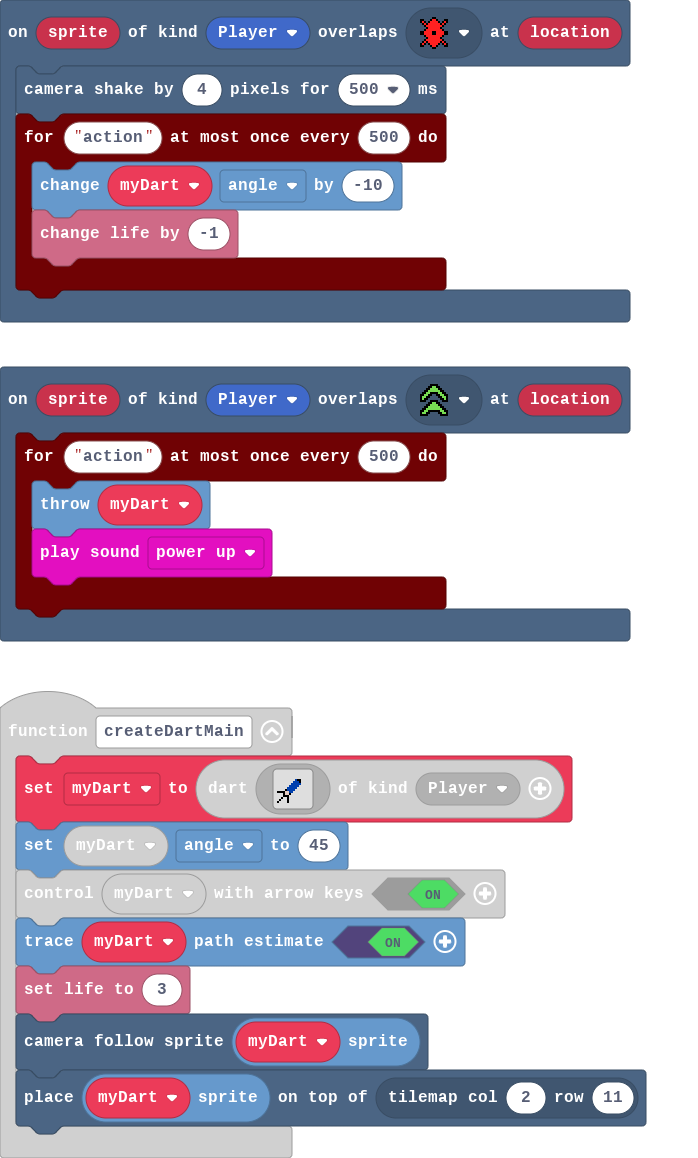
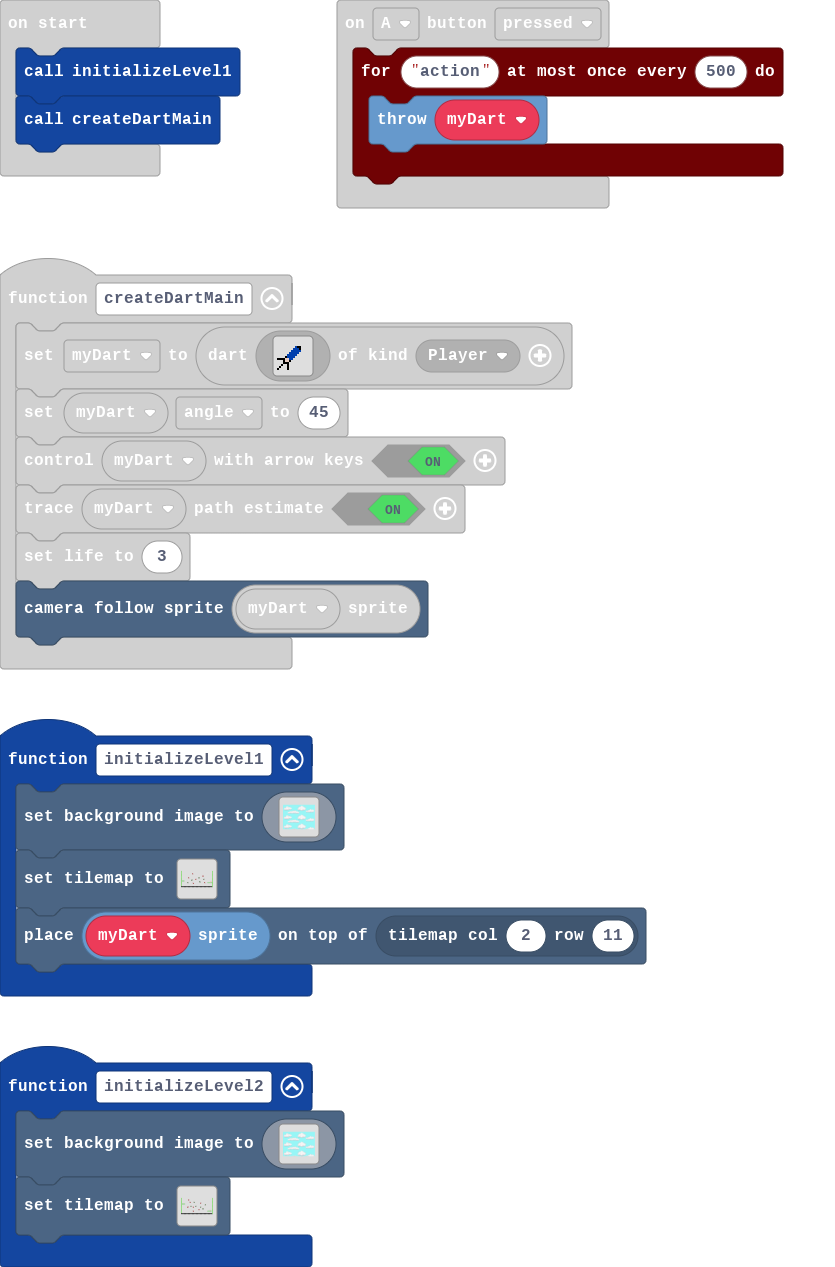
Update main.blocks, main.ts, tilemap.g.jres, tilemap.g.ts

diff --git a/tilemap.g.ts b/tilemap.g.ts
@@ -13,67 +13,6 @@ namespace myTiles {
 
     helpers._registerFactory("tilemap", function(name: string) {
         switch(helpers.stringTrim(name)) {
-            case "level2":
-            case "level2":return tiles.createTilemap(hex`1000100000000000000000000000000000000000000000000000000000000000000000000000000000000000000000000000000000000000000000000000000000000000000000000000000000000000000000000000000000000000000000000000000000000000000000000000000000000000000000000000000000000000000000000000000000000000000000000000000000000000000000000000000000000000000000000000000000000000000000000000000000000000000000000000000000000000000000000000000000000000000000000000000000000000000000000000000000000000000000000000000000000000000000000000000000000000`, img`
-. . . . . . . . . . . . . . . . 
-. . . . . . . . . . . . . . . . 
-. . . . . . . . . . . . . . . . 
-. . . . . . . . . . . . . . . . 
-. . . . . . . . . . . . . . . . 
-. . . . . . . . . . . . . . . . 
-. . . . . . . . . . . . . . . . 
-. . . . . . . . . . . . . . . . 
-. . . . . . . . . . . . . . . . 
-. . . . . . . . . . . . . . . . 
-. . . . . . . . . . . . . . . . 
-. . . . . . . . . . . . . . . . 
-. . . . . . . . . . . . . . . . 
-. . . . . . . . . . . . . . . . 
-. . . . . . . . . . . . . . . . 
-. . . . . . . . . . . . . . . . 
-`, [myTiles.transparency16], TileScale.Sixteen);
-            case "level1":
-            case "level1":return tiles.createTilemap(hex`280014000600000000000000000000000000000000000000000000000000000000000000000000000000000406000000000000000000000000000000000000000000000000000000000000000000000000000004060000000000000000000000000000000000000000000000000000000000000000000000000000040600000000000000000000000000090000000000000000000000000000000000000000000000000406000000000000000000000000000000000000000000000000000000000000000000000000000004060000000000000000000000000000000000000000000000000000000000000000000000000000040600000000000000000000000000000000000000000000000000000900000000000000000000000406000000000000000000000000000000000000000000000000000000000000000000000000000004060000000000000000090000000000000000000000000800000000000000000000000000000000040600000000000000000000000000000000000000000000000000000000000000000000000000000406000000000000000000000000000000000009000000000000000000080000000000000000000004060000000000000000000000000800000000000000000000000000000000000000000000000000040601020300000000000000000000000000000000000000000000000000000000000000000000000406000000000000000000000000000000000000000000000800000000000000000005000000000004060000000000000008000000000000000000000000000000000000000009000102020202030000040600000000000000000000000000000900000000000000000000000000000000000000000000000406000000000000000000000000000000000000000000000000000000000000000000000000000004060000000000000000000000000000000000000000000000000000000000000000000000000000040600000000000000000000000000000000000000000000000000000000000000000000000000000407070707070707070707070707070707070707070707070707070707070707070707070707070704`, img`
-2......................................2
-2......................................2
-2......................................2
-2......................................2
-2......................................2
-2......................................2
-2......................................2
-2......................................2
-2......................................2
-2......................................2
-2......................................2
-2......................................2
-2222...................................2
-2......................................2
-2..............................222222..2
-2......................................2
-2......................................2
-2......................................2
-2......................................2
-2......................................2
-`, [myTiles.transparency16,sprites.skillmap.islandTile6,sprites.skillmap.islandTile7,sprites.skillmap.islandTile8,sprites.skillmap.islandTile5,myTiles.tile1,sprites.skillmap.islandTile3,myTiles.tile2,myTiles.tile3,myTiles.tile4], TileScale.Sixteen);
-            case "level3":
-            case "level3":return tiles.createTilemap(hex`1000100000000000000000000000000000000000000000000000000000000000000000000000000000000000000000000000000000000000000000000000000000000000000000000000000000000000000000000000000000000000000000000000000000000000000000000000000000000000000000000000000000000000000000000000000000000000000000000000000000000000000000000000000000000000000000000000000000000000000000000000000000000000000000000000000000000000000000000000000000000000000000000000000000000000000000000000000000000000000000000000000000000000000000000000000000000000`, img`
-. . . . . . . . . . . . . . . . 
-. . . . . . . . . . . . . . . . 
-. . . . . . . . . . . . . . . . 
-. . . . . . . . . . . . . . . . 
-. . . . . . . . . . . . . . . . 
-. . . . . . . . . . . . . . . . 
-. . . . . . . . . . . . . . . . 
-. . . . . . . . . . . . . . . . 
-. . . . . . . . . . . . . . . . 
-. . . . . . . . . . . . . . . . 
-. . . . . . . . . . . . . . . . 
-. . . . . . . . . . . . . . . . 
-. . . . . . . . . . . . . . . . 
-. . . . . . . . . . . . . . . . 
-. . . . . . . . . . . . . . . . 
-. . . . . . . . . . . . . . . . 
-`, [myTiles.transparency16], TileScale.Sixteen);
             case "level4":
             case "level4":return tiles.createTilemap(hex`1000100000000000000000000000000000000000000000000000000000000000000000000000000000000000000000000000000000000000000000000000000000000000000000000000000000000000000000000000000000000000000000000000000000000000000000000000000000000000000000000000000000000000000000000000000000000000000000000000000000000000000000000000000000000000000000000000000000000000000000000000000000000000000000000000000000000000000000000000000000000000000000000000000000000000000000000000000000000000000000000000000000000000000000000000000000000000`, img`
 . . . . . . . . . . . . . . . . 
@@ -93,6 +32,113 @@ namespace myTiles {
 . . . . . . . . . . . . . . . . 
 . . . . . . . . . . . . . . . . 
 `, [myTiles.transparency16], TileScale.Sixteen);
+            case "level1":
+            case "level1":return tiles.createTilemap(hex`280014000600000000000000000000000000000000000000000000000000000000000000000000000000000406000000000000000000000000000000000000000000000000000000000000000000000000000004060000000000000000000000000000000000000000000000000000000000000000000000000000040600000000000000000000000000090000000000000000000000000000000000000000000000000406000000000000000000000000000000000000000000000000000000000000000000000000000004060000000000000000000000000000000000000000000000000000000000000000000000000000040600000000000000000000000000000000000000000000000000000900000000000000000000000406000000000000000000000000000000000000000000000000000000000000000000000000000004060000000000000000090000000000000000000000000800000000000000000000000000000000040600000000000000000000000000000000000000000000000000000000000000000000000000000406000000000000000000000000000000000009000000000000000000080000000000000000000004060000000000000000000000000800000000000000000000000000000000000000000000000000040601020300000000000000000000000000000000000000000000000000000000000000000000000406000000000000000000000000000000000000000000000800000000000000000000000000050004060000000000000008000000000000000000000000000000000000000009000000010202020203040600000000000000000000000000000900000000000000000000000000000000000000000000000406000000000000000000000000000000000000000000000000000000000000000000000000000004060000000000000000000000000000000000000000000000000000000000000000000000000000040600000000000000000000000000000000000000000000000000000000000000000000000000000407070707070707070707070707070707070707070707070707070707070707070707070707070704`, img`
+2......................................2
+2......................................2
+2......................................2
+2......................................2
+2......................................2
+2......................................2
+2......................................2
+2......................................2
+2......................................2
+2......................................2
+2......................................2
+2......................................2
+2222...................................2
+2......................................2
+2................................2222222
+2......................................2
+2......................................2
+2......................................2
+2......................................2
+2......................................2
+`, [myTiles.transparency16,sprites.skillmap.islandTile6,sprites.skillmap.islandTile7,sprites.skillmap.islandTile8,sprites.skillmap.islandTile5,myTiles.tile1,sprites.skillmap.islandTile3,myTiles.tile2,myTiles.tile3,myTiles.tile4], TileScale.Sixteen);
+            case "level5":
+            case "level5":return tiles.createTilemap(hex`1000100000000000000000000000000000000000000000000000000000000000000000000000000000000000000000000000000000000000000000000000000000000000000000000000000000000000000000000000000000000000000000000000000000000000000000000000000000000000000000000000000000000000000000000000000000000000000000000000000000000000000000000000000000000000000000000000000000000000000000000000000000000000000000000000000000000000000000000000000000000000000000000000000000000000000000000000000000000000000000000000000000000000000000000000000000000000`, img`
+. . . . . . . . . . . . . . . . 
+. . . . . . . . . . . . . . . . 
+. . . . . . . . . . . . . . . . 
+. . . . . . . . . . . . . . . . 
+. . . . . . . . . . . . . . . . 
+. . . . . . . . . . . . . . . . 
+. . . . . . . . . . . . . . . . 
+. . . . . . . . . . . . . . . . 
+. . . . . . . . . . . . . . . . 
+. . . . . . . . . . . . . . . . 
+. . . . . . . . . . . . . . . . 
+. . . . . . . . . . . . . . . . 
+. . . . . . . . . . . . . . . . 
+. . . . . . . . . . . . . . . . 
+. . . . . . . . . . . . . . . . 
+. . . . . . . . . . . . . . . . 
+`, [myTiles.transparency16], TileScale.Sixteen);
+            case "level6":
+            case "level6":return tiles.createTilemap(hex`1000100000000000000000000000000000000000000000000000000000000000000000000000000000000000000000000000000000000000000000000000000000000000000000000000000000000000000000000000000000000000000000000000000000000000000000000000000000000000000000000000000000000000000000000000000000000000000000000000000000000000000000000000000000000000000000000000000000000000000000000000000000000000000000000000000000000000000000000000000000000000000000000000000000000000000000000000000000000000000000000000000000000000000000000000000000000000`, img`
+. . . . . . . . . . . . . . . . 
+. . . . . . . . . . . . . . . . 
+. . . . . . . . . . . . . . . . 
+. . . . . . . . . . . . . . . . 
+. . . . . . . . . . . . . . . . 
+. . . . . . . . . . . . . . . . 
+. . . . . . . . . . . . . . . . 
+. . . . . . . . . . . . . . . . 
+. . . . . . . . . . . . . . . . 
+. . . . . . . . . . . . . . . . 
+. . . . . . . . . . . . . . . . 
+. . . . . . . . . . . . . . . . 
+. . . . . . . . . . . . . . . . 
+. . . . . . . . . . . . . . . . 
+. . . . . . . . . . . . . . . . 
+. . . . . . . . . . . . . . . . 
+`, [myTiles.transparency16], TileScale.Sixteen);
+            case "level3":
+            case "level3":return tiles.createTilemap(hex`280014000400000000000000000000000000000000000000000000000000000000000000000000000000000704000000000000000000000000000000000000000000000000000000000000000000000000000007040000000000000000000000000000000000000000000000000000000000000000000000000000070400000000000000000000000000000000000000000000000000000000000200000000000000000704000000000000000000000000000000000000030000000000000000000000000000000000000007040000000000000000000000000000000000000000000000000000000000000000000000000000070400000000000000000000000000000000000000000000000000000300000000000000000000000704000000000000000000000000030000000000000000000000000000000000000000000000000007040000000000000000000000000000000000020000000000000000000000000000000000000000070400000000000000000000000000000000000000000000000000000000000000000000000000000704000000000000000000000000000000000000000000000000000000000000000005060000000007040000000000000000000000000000000300000000000002000000000000000200000000000000070400000000000000000002000000000000000000000000000000000002000000000000000000000704000000000000000000000000000000000000000000000000000000000000000000000000000007040000000000000000000000000000000002000000000000000000000000000000000000000000070405060000000000000000000000000000000000000000000000000000000000000000000000000704000000000000030000000000000000000000000000000000000000000000000000000000000007040000000000000000000000000000000000000000000000000000000000000000000000000000070400000000000000000000000000000000000000000000000000000000000000000000000000000701010101010101010101010101010101010101010101010101010101010101010101010101010107`, img`
+2......................................2
+2......................................2
+2......................................2
+2......................................2
+2......................................2
+2......................................2
+2......................................2
+2......................................2
+2......................................2
+2......................................2
+2................................22....2
+2......................................2
+2......................................2
+2......................................2
+2......................................2
+222....................................2
+2......................................2
+2......................................2
+2......................................2
+2......................................2
+`, [myTiles.transparency16,myTiles.tile2,myTiles.tile3,myTiles.tile4,sprites.skillmap.islandTile3,sprites.skillmap.islandTile6,sprites.skillmap.islandTile8,sprites.skillmap.islandTile5], TileScale.Sixteen);
+            case "level2":
+            case "level2":return tiles.createTilemap(hex`280014000500000000000000000000000000000000000000000000000000000000000000000000000000000905000000000000000000000000000000000000000000000000000000000000000000000000000009050000000000000000040000000000000000000000000000000000000000000000000000000000090500000000000000000000000000000000000000000000000000000000000000000000000000000905000000000000000000000000000000000000000000000000000000000000000000000000000009050000000000000000000004000000000300000000000000000000000000000000000000000000090500000000000000000000000000000000000000000000000400000000000000000000000000000905060707080000000000000000000000000000000000000000000000000000000000000000000009050000000000000000000000000000000000000000000000000000000000030000000000000000090500000000000000000000000000000000000000000000000000000000000000000000000000000905000000000000000000000003000000000003000000000000000000000000000000000000000009050000000000000004000000000000040000000000000000030000000000000000000000000000090500000000000000000000000000000000000000000000000000000000000000000000000000000905000000000000000000000000000000000000000000000000000003000000000000000000000009050000000000000000000000000000000000000000000400000000000000000000000000000000090500000000000000000000000000000000000000000000000000000000000000000000000100000905000000000000000000000000000004000000000000000000000000000000000006070707080009050000000000000000000000000000000000000000000000000000000000000000000000000000090500000000000000000000000000000000000000000000000000000000000000000000000000000902020202020202020202020202020202020202020202020202020202020202020202020202020209`, img`
+2......................................2
+2......................................2
+2......................................2
+2......................................2
+2......................................2
+2......................................2
+2......................................2
+22222..................................2
+2......................................2
+2......................................2
+2......................................2
+2......................................2
+2......................................2
+2......................................2
+2......................................2
+2......................................2
+2................................22222.2
+2......................................2
+2......................................2
+.......................................2
+`, [myTiles.transparency16,myTiles.tile1,myTiles.tile2,myTiles.tile3,myTiles.tile4,sprites.skillmap.islandTile3,sprites.skillmap.islandTile6,sprites.skillmap.islandTile7,sprites.skillmap.islandTile8,sprites.skillmap.islandTile5], TileScale.Sixteen);
         }
         return null;
     })

diff --git a/main.ts b/main.ts
@@ -1,3 +1,7 @@
+function initializeLevel2 () {
+    scene.setBackgroundImage(assets.image`background`)
+    tiles.setTilemap(tilemap`level2`)
+}
 scene.onOverlapTile(SpriteKind.Player, assets.tile`boost`, function (sprite, location) {
     timer.throttle("action", 500, function () {
         myDart.throwDart()
@@ -9,7 +13,9 @@ scene.onOverlapTile(SpriteKind.Player, assets.tile`myTile`, function (sprite, lo
     game.over(false)
 })
 controller.A.onEvent(ControllerButtonEvent.Pressed, function () {
-    myDart.throwDart()
+    timer.throttle("action", 500, function () {
+        myDart.throwDart()
+    })
 })
 function createDartMain () {
     myDart = darts.create(assets.image`dartMain`, SpriteKind.Player)
@@ -18,6 +24,10 @@ function createDartMain () {
     myDart.setTrace(true)
     info.setLife(3)
     scene.cameraFollowSprite(myDart.sprite)
+}
+function initializeLevel1 () {
+    scene.setBackgroundImage(assets.image`background`)
+    tiles.setTilemap(tilemap`level1`)
     tiles.placeOnTile(myDart.sprite, tiles.getTileLocation(2, 11))
 }
 scene.onOverlapTile(SpriteKind.Player, assets.tile`bomb`, function (sprite, location) {
@@ -28,6 +38,5 @@ scene.onOverlapTile(SpriteKind.Player, assets.tile`bomb`, function (sprite, loca
     })
 })
 let myDart: Dart = null
-scene.setBackgroundImage(assets.image`background`)
-tiles.setTilemap(tilemap`level1`)
+initializeLevel1()
 createDartMain()
